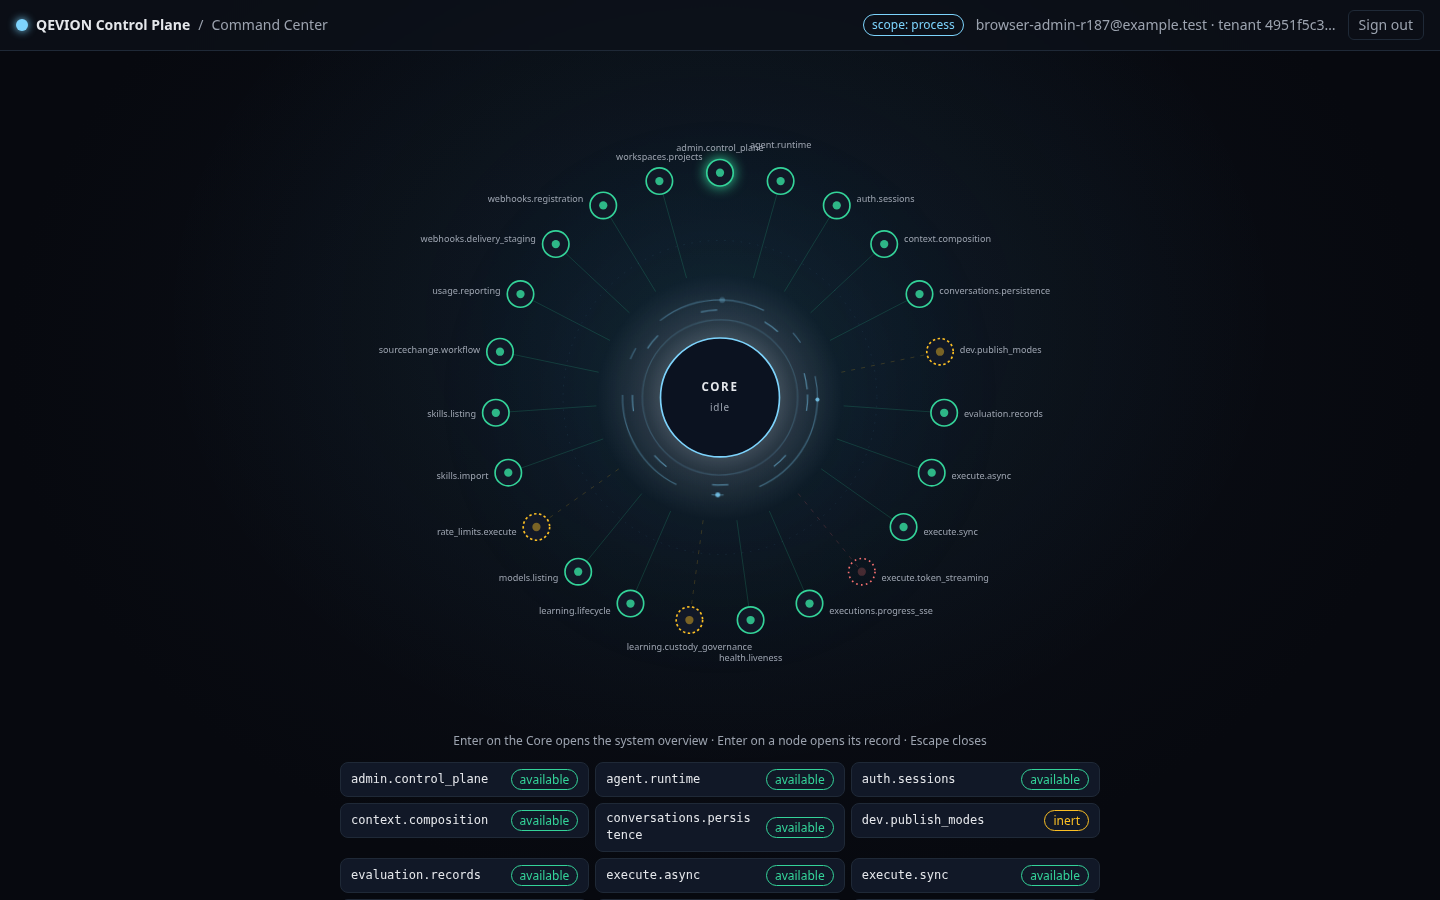
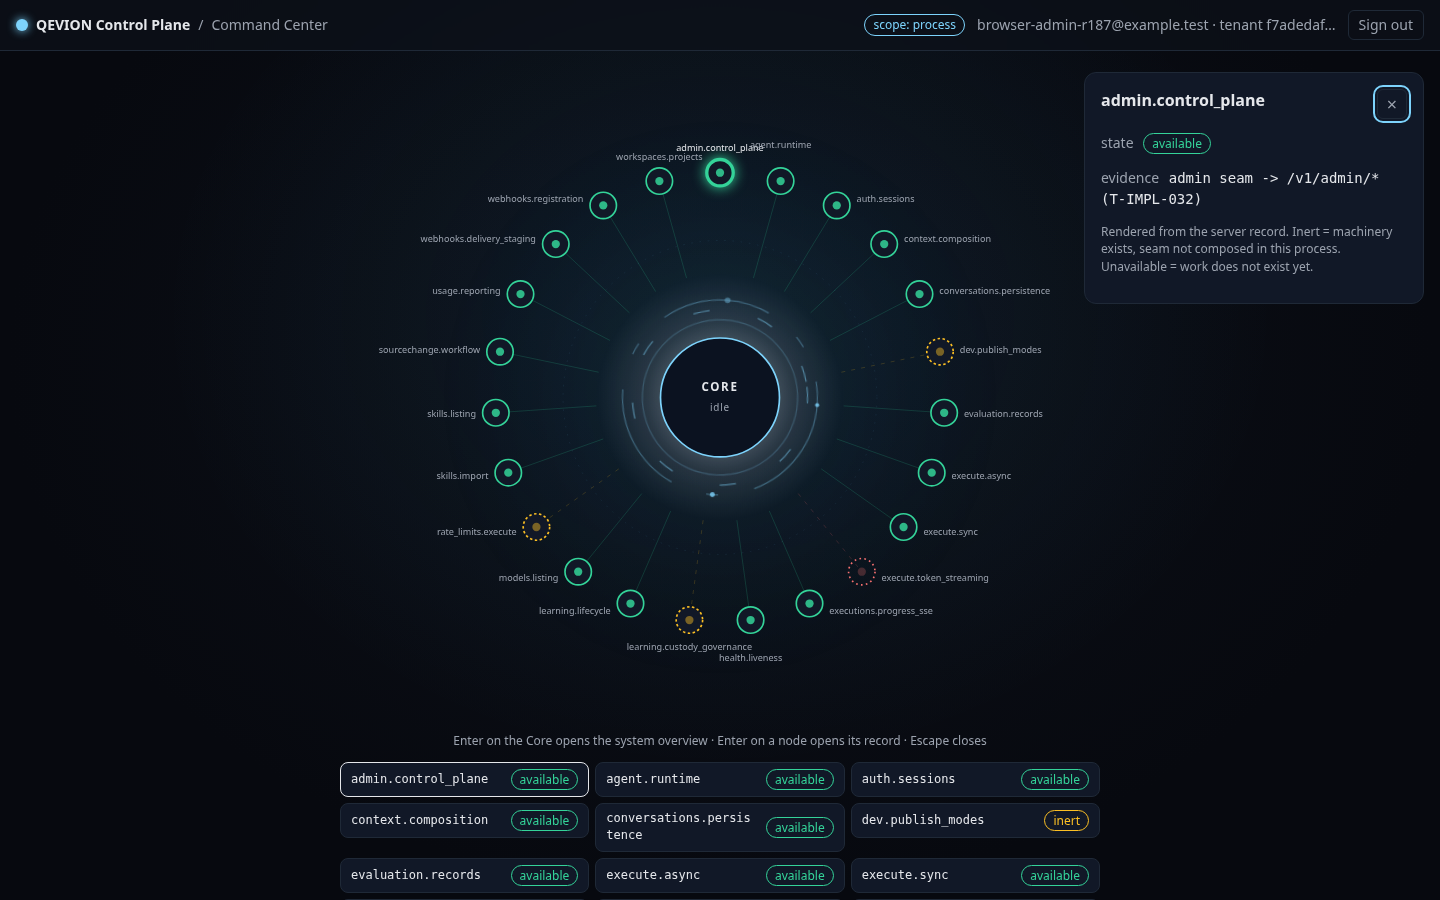
r187: browser proof waits for the dialog rise animation and records the detail panel rect (overlay at right edge, gap 16 px); screenshot re-captured

diff --git a/tests/ui/test_command_center_fix_r187.py b/tests/ui/test_command_center_fix_r187.py
@@ -274,6 +274,18 @@ def _open_detail(page) -> None:
     else:  # no served capability to select — measure the panel geometry only
         page.evaluate("() => { document.getElementById('node-detail').hidden = false; }")
     page.wait_for_selector("#node-detail:not([hidden])", timeout=5000)
+    # the .dialog `rise` animation is 220 ms; wait until the panel is fully painted
+    page.wait_for_function(
+        "() => getComputedStyle(document.getElementById('node-detail')).opacity === '1'",
+        timeout=5000,
+    )
+
+
+DETAIL_RECT_JS = """() => {
+  const r = document.getElementById('node-detail').getBoundingClientRect();
+  return {x: r.x, y: r.y, width: r.width, height: r.height,
+          right_gap: document.documentElement.clientWidth - r.right};
+}"""
 
 
 @pytest.mark.skipif(not _HAS_PLAYWRIGHT, reason="playwright not installed")
@@ -301,6 +313,7 @@ def test_session_survives_reload_and_core_is_centred_in_a_real_browser(server: d
         _open_detail(page)
         offset_open = page.evaluate(CORE_OFFSET_JS)
         overflow_1440 = page.evaluate(OVERFLOW_JS)
+        detail_rect = page.evaluate(DETAIL_RECT_JS)
         page.screenshot(path=str(out_dir / "desktop_1440_detail_open.png"))
         proof["checks"].append(
             {
@@ -308,8 +321,11 @@ def test_session_survives_reload_and_core_is_centred_in_a_real_browser(server: d
                 "core_offset_closed_px": offset_closed,
                 "core_offset_open_px": offset_open,
                 "overflow_px": overflow_1440,
+                "detail_panel_rect": detail_rect,
             }
         )
+        assert detail_rect["width"] > 0 and detail_rect["height"] > 0, "detail panel painted"
+        assert 0 <= detail_rect["right_gap"] <= 32, "detail panel sits inside the right edge"
         assert abs(offset_closed) <= 8, f"Core off-centre (closed): {offset_closed:.1f}px"
         assert abs(offset_open) <= 8, f"Core off-centre (detail open): {offset_open:.1f}px"
         assert overflow_1440 == 0
